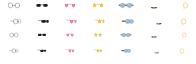
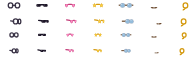
Clankers shop: keep words off the items, thicker glasses lines
- The shop tiles no longer carry price tags, which covered the hats on a TV; the price shows in
  the "A buy" line instead, with an owned dot on the tile.
- The name and action sit beside each try-on hero instead of over its head.
- Thin frames (eyeglasses, monocle, glasses bridges) keep at least ~1.3 px, so they survive the
  N64 bake instead of vanishing. Accessory strips re-baked.

Claude-Session: https://claude.ai/code/session_01FGswf8vjLB1M7QvLR8JQgF

diff --git a/roms/clankers/web/lib/draw.js b/roms/clankers/web/lib/draw.js
@@ -391,6 +391,8 @@ const CK = (() => {
     g.bezierCurveTo(x + r * 0.8, y - r * 1.2, x + r * 1.5, y - r * 0.1, x, y + r * 0.95);
     g.fill();
   }
+  // a line at least ~1.3 screen pixels wide, so thin frames survive tiny sizes (and the N64 bake)
+  const pxw = lw => { const m = K.g.getTransform(); return Math.max(lw, 1.3 / (Math.hypot(m.a, m.b) || 1)); };
   const poly = (pts, c) => { const g = K.g; g.fillStyle = c; g.beginPath(); pts.forEach(([x, y], i) => i ? g.lineTo(x, y) : g.moveTo(x, y)); g.closePath(); g.fill(); };
   // HATS: drawn at the head's top middle, 100 units = the head's width; side = facing right
   K.wearHead = (id, cx, top, w, t = 0, side = false) => {
@@ -454,7 +456,7 @@ const CK = (() => {
   // FACE: eyes = [[x, y, rx, ry], ...], the near eye first (side views pass the squeezed far eye second)
   K.wearFace = (id, eyes, side = false) => {
     const g = K.g, [a, b] = eyes, dir = b[0] > a[0] ? 1 : -1;
-    const bridge = (c, lw, k = 0.3) => { g.strokeStyle = c; g.lineWidth = lw; g.lineCap = 'round'; g.beginPath(); g.moveTo(a[0] + dir * a[2], a[1] - a[3] * k); g.lineTo(b[0] - dir * b[2], b[1] - b[3] * k); g.stroke();
+    const bridge = (c, lw, k = 0.3) => { g.strokeStyle = c; g.lineWidth = pxw(lw); g.lineCap = 'round'; g.beginPath(); g.moveTo(a[0] + dir * a[2], a[1] - a[3] * k); g.lineTo(b[0] - dir * b[2], b[1] - b[3] * k); g.stroke();
       if (side) { g.beginPath(); g.moveTo(a[0] - a[2], a[1] - a[3] * k); g.lineTo(a[0] - a[2] * 2.6, a[1] - a[3] * (k + 0.2)); g.stroke(); } };
     if (id === 'shades') {
       bridge('#1b1426', Math.max(1.2, a[2] * 0.22));
@@ -464,7 +466,7 @@ const CK = (() => {
       }
     } else if (id === 'glasses') {
       bridge('#3a3346', Math.max(1.2, a[2] * 0.16), 0);
-      for (const [x, y, rx, ry] of eyes) { g.strokeStyle = '#3a3346'; g.lineWidth = Math.max(1.2, rx * 0.18); g.beginPath(); g.ellipse(x, y, rx * 1.2, ry * 1.1, 0, 0, P * 2); g.stroke(); }
+      for (const [x, y, rx, ry] of eyes) { g.strokeStyle = '#3a3346'; g.lineWidth = pxw(Math.max(1.2, rx * 0.18)); g.beginPath(); g.ellipse(x, y, rx * 1.2, ry * 1.1, 0, 0, P * 2); g.stroke(); }
     } else if (id === 'hearts' || id === 'stars') {
       bridge(id === 'hearts' ? '#c23b78' : '#d49a10', Math.max(1.2, a[2] * 0.18), 0.5);
       for (const [x, y, rx, ry] of eyes) {
@@ -484,8 +486,8 @@ const CK = (() => {
       if (side) { g.beginPath(); g.moveTo(mx, my - s * 0.15); g.quadraticCurveTo(mx - s * 0.6, my - s * 0.4, mx - s * 0.8, my); g.quadraticCurveTo(mx - s * 0.4, my + s * 0.2, mx, my + s * 0.15); g.fill(); }
     } else if (id === 'monocle') {
       const [x, y, rx, ry] = side ? a : b, pad = rx * 0.2;
-      g.strokeStyle = '#d49a10'; g.lineWidth = Math.max(1.5, rx * 0.2); g.beginPath(); g.ellipse(x, y, rx + pad, ry + pad, 0, 0, P * 2); g.stroke();
-      g.lineWidth = Math.max(1, rx * 0.08); g.beginPath(); g.moveTo(x, y + ry + pad); g.quadraticCurveTo(x - rx * 0.6, y + ry * 2.2, x - rx * 1.4, y + ry * 1.9); g.stroke();
+      g.strokeStyle = '#d49a10'; g.lineWidth = pxw(Math.max(1.5, rx * 0.2)); g.beginPath(); g.ellipse(x, y, rx + pad, ry + pad, 0, 0, P * 2); g.stroke();
+      g.lineWidth = pxw(Math.max(1, rx * 0.08)); g.beginPath(); g.moveTo(x, y + ry + pad); g.quadraticCurveTo(x - rx * 0.6, y + ry * 2.2, x - rx * 1.4, y + ry * 1.9); g.stroke();
     }
   };
   // NECK: at the bottom middle of the head, 100 units = the neck piece's width

diff --git a/roms/clankers/web/game.js b/roms/clankers/web/game.js
@@ -544,8 +544,8 @@ function shopScene() {
       const { x, y } = cell(k), own = closet.own.includes(it.id), worn = team.some(m => closet.wear[m.slot][it.slot] === it.id);
       K.rr(x, y, TW, TH, 5, worn ? 'rgba(73,209,122,0.4)' : TINT[it.slot]);
       icon(it, x, y, S.t);
+      // prices would cover the items at this size: owned ones get a tick, the price shows below
       if (own) { K.circ(x + TW - 4, y + 4, 4, '#49d17a'); text('✓', x + TW - 4, y + 6.5, 6, '#fff', 'center', null); }
-      else { K.rr(x + 1, y + TH - 8, TW - 2, 8, 3, 'rgba(27,20,38,0.88)'); K.nut(x + 6, y + TH - 4, 2.5, 0, '#ffd23f'); text(String(it.cost), x + 18, y + TH - 1, 7, (prog.bolts || 0) >= it.cost ? '#fff6d8' : '#ff9a8a', 'center', null); }
     });
     // cursors, one per player
     team.forEach((m, j) => {
@@ -556,12 +556,15 @@ function shopScene() {
     // the heroes trying on what their cursor is on, on top of everything they already wear
     team.forEach((m, j) => {
       const it = K.ACC[S.cur[m.slot]], worn = closet.wear[m.slot], tryOn = Object.assign({}, worn, { [it.slot]: it.id });
-      const x = team.length > 1 ? 80 + j * 160 : 160, y = 230, t = S.t + j;
+      const x = team.length > 1 ? 40 + j * 160 : 120, y = 230, t = S.t + j;
       K.rr(x - 22, y - 2, 44, 5, 2.5, 'rgba(255,255,255,0.12)');
       if (m.hero === 'robot') K.robot(x, y, 0.11, m.hex, { t, bob: Math.sin(t * 3) * 3, eyes: { happy: 0.6 }, acc: tryOn });
       else K.ostrich(x, y, 0.1, m.hex, { t, bob: Math.abs(Math.sin(t * 2.6)) * 8, eyes: { happy: 0.6 }, acc: tryOn });
-      const own = closet.own.includes(it.id), how = !own ? 'A buy' : worn[it.slot] === it.id ? 'A take off' : 'A wear';
-      text(it.name, x, 174, 8, m.slot ? '#8fd3ff' : '#ffd23f', 'center'); text(how, x, 184, 7, '#fff6d8', 'center');
+      const own = closet.own.includes(it.id), how = !own ? 'A buy  ' + it.cost : worn[it.slot] === it.id ? 'A take off' : 'A wear';
+      const tx = x + 24;   // beside the hero, so the words never cover what it is trying on
+      text(it.name, tx, 200, 8, m.slot ? '#8fd3ff' : '#ffd23f', 'left');
+      text(how, tx, 212, 7, own || (prog.bolts || 0) >= it.cost ? '#fff6d8' : '#ff9a8a', 'left');
+      if (!own) K.nut(tx + textW(how, 7) + 5, 209.5, 3, S.t, '#ffd23f');
     });
     drawParticles(0);
     if (S.msg) { fitPanel(S.msg.text, 10, 0, 12, 18, '#ffd23f'); text(S.msg.text, W / 2, 25, 10, '#2b2230', 'center', null); }

diff --git a/roms/clankers/src/n64/draw.c b/roms/clankers/src/n64/draw.c
@@ -584,12 +584,8 @@ static void draw_shop(const ck_game *G) {
         for (int s = 0; s < 2; s++) if (G->prog.joined[s] && c->wear[s][slot] == a + 1) worn = true;
         rect(x, y, 30, 30, worn ? 0x49D17A : tint[slot], worn ? 0.4f : 0.14f);
         acc_icon(a, x, y, t);
+        // prices would cover the items at this size: owned ones get a green dot, the price shows below
         if (own) shape(SPR_DOT, x + 26, y + 4, 3.5f, 0x49D17A, 1);
-        else {
-            rect(x + 1, y + 22, 28, 8, 0x1B1426, 0.9f);
-            blit_o(SPR_BOLT, 0, x + 6, y + 26, (bopt){ .sx = 2.5f / 4.2f, .sy = 2.5f / 4.2f });
-            txt(F_SMALL, G->prog.bolts >= ck_acc[a].cost ? ST_PLAIN : ST_RED, x + 18, y + 29.5f, ALIGN_CENTER, "%d", ck_acc[a].cost);
-        }
     }
     int np = G->prog.joined[0] + G->prog.joined[1], j = 0;
     for (int s = 0; s < 2; s++) {
@@ -605,13 +601,19 @@ static void draw_shop(const ck_game *G) {
         memcpy(tryOn, c->wear[s], sizeof tryOn);
         tryOn[ck_acc[a].slot] = (uint8_t)(a + 1);
         int hero = G->prog.hero[s];
-        float hx = np > 1 ? 80 + j * 160 : 160, sc = hero == HERO_ROBOT ? 0.11f / 0.074f : 0.1f / 0.071f, tt = t + j;
+        float hx = np > 1 ? 40 + j * 160 : 120, sc = hero == HERO_ROBOT ? 0.11f / 0.074f : 0.1f / 0.071f, tt = t + j;
         rect(hx - 22, 228, 44, 4, 0xFFFFFF, 0.12f);
         int fr = (int)(tt / (hero == HERO_ROBOT ? 0.52f : 0.3f)) % 4;
         hero_front(hero, G->prog.col[s], fr, hx, 230, sc, false, tryOn, tt);
-        const char *how = !CK_OWNS(c, a) ? "A buy" : c->wear[s][ck_acc[a].slot] == a + 1 ? "A take off" : "A wear";
-        txt(F_MED, s ? ST_BLUE : ST_YELLOW, hx, 175, ALIGN_CENTER, "%s", ck_acc[a].name);
-        txt(F_SMALL, ST_PLAIN, hx, 186, ALIGN_CENTER, "%s", how);
+        // the words go beside the hero, so they never cover what it is trying on
+        float tx = hx + 24;
+        txt(F_MED, s ? ST_BLUE : ST_YELLOW, tx, 200, ALIGN_LEFT, "%s", ck_acc[a].name);
+        if (!CK_OWNS(c, a)) {
+            char buy[24];
+            snprintf(buy, sizeof buy, "A buy  %d", ck_acc[a].cost);
+            txt(F_SMALL, G->prog.bolts >= ck_acc[a].cost ? ST_PLAIN : ST_RED, tx, 213, ALIGN_LEFT, "%s", buy);
+            blit_o(SPR_BOLT, 0, tx + txt_w(F_SMALL, buy) + 5, 210, (bopt){ .sx = 3 / 4.2f, .sy = 3 / 4.2f });
+        } else txt(F_SMALL, ST_PLAIN, tx, 213, ALIGN_LEFT, "%s", c->wear[s][ck_acc[a].slot] == a + 1 ? "A take off" : "A wear");
         j++;
     }
     if (G->shopMsgT > 0) banner(F_MED, ST_YELLOW, 0xFFD23F, 10, 120, 20, 24, G->shopMsg);
